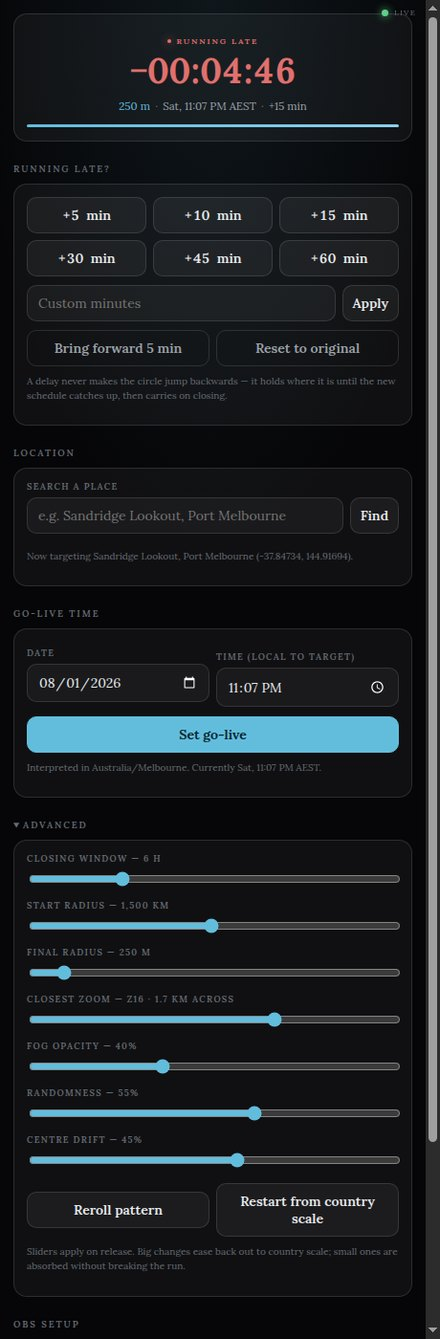
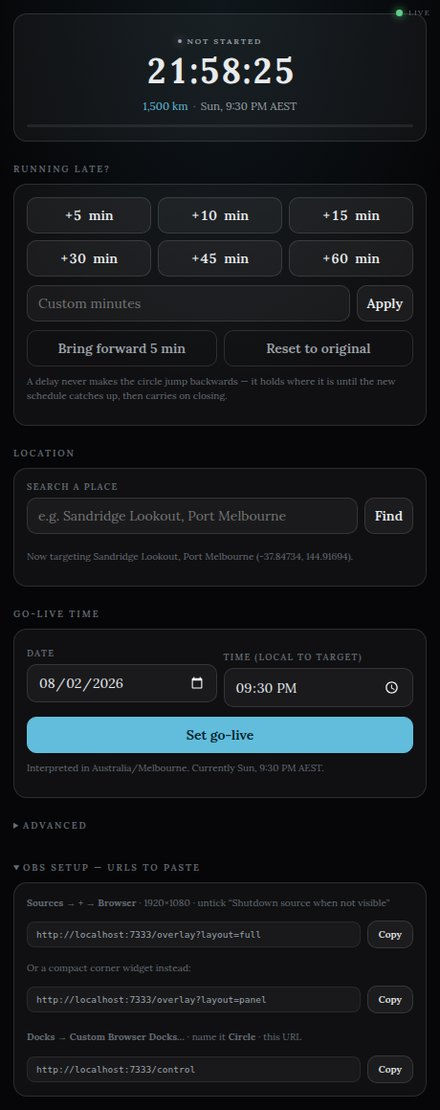
Package a download-and-run release
Installing meant cloning, npm install, npm start — fine for a developer,
not for someone who just wants an overlay before a stream.

The release zip now bundles node_modules, so Node.js is the only
prerequisite and there is no install step. That is only reasonable because
the runtime tree is two dependency-free packages: maplibre moves to
devDependencies, since its dist is already vendored into public/vendor.
The zip is 1.4 MB.

Launchers for all three platforms (.cmd, .command, .sh) check for Node and
point at nodejs.org rather than failing with "command not found", and stay
open on exit so a double-click never flashes a window and vanishes. The
server opens the control panel on start, and answers the likeliest
first-run failure — a second copy already running — with the port and a
fix instead of an EADDRINUSE stack trace.

The OBS URLs move out of Advanced into their own section, open by default,
with the click-path spelled out beside each one.

Release contents are an explicit allowlist, not a blocklist, so state.json
and the geocode cache cannot end up in a public download.

diff --git a/server/index.js b/server/index.js
@@ -7,6 +7,7 @@
  * and EventSource reconnects on its own with no dependency to install.
  */
 import { createServer } from 'node:http';
+import { spawn } from 'node:child_process';
 import { readFile } from 'node:fs/promises';
 import { extname, join, normalize, sep } from 'node:path';
 import { fileURLToPath } from 'node:url';
@@ -183,6 +184,23 @@ const server = createServer(async (req, res) => {
   }
 });
 
+/**
+ * Open the control panel in the default browser on start.
+ *
+ * Best-effort and deliberately silent on failure — a headless box or a locked-down
+ * desktop should still get a running server, not a crash. Set NO_OPEN=1 to skip.
+ */
+function openBrowser(url) {
+  if (process.env.NO_OPEN) return;
+  const cmd = process.platform === 'darwin' ? 'open'
+    : process.platform === 'win32' ? 'cmd'
+      : 'xdg-open';
+  const args = process.platform === 'win32' ? ['/c', 'start', '', url] : [url];
+  try {
+    spawn(cmd, args, { stdio: 'ignore', detached: true }).on('error', () => {}).unref();
+  } catch { /* no browser available; the URLs are printed above anyway */ }
+}
+
 function lanAddress() {
   for (const list of Object.values(networkInterfaces())) {
     for (const ni of list || []) {
@@ -191,6 +209,20 @@ function lanAddress() {
   }
   return null;
 }
+
+// The most likely first-run failure is a second copy already running. Say so plainly
+// instead of dumping an EADDRINUSE stack trace at someone who just wants an overlay.
+server.on('error', (err) => {
+  if (err.code === 'EADDRINUSE') {
+    console.error('');
+    console.error(`  Port ${PORT} is already in use.`);
+    console.error('  The Circle may already be running — check for another window,');
+    console.error(`  or start it on a different port with:  PORT=7334 npm start`);
+    console.error('');
+    process.exit(1);
+  }
+  throw err;
+});
 
 server.listen(PORT, HOST, () => {
   const lan = lanAddress();
@@ -207,6 +239,8 @@ server.listen(PORT, HOST, () => {
   console.log(`  │  Target   ${s.config.target.name}`);
   console.log(`  │  Go live  ${formatLocal(s.config.goLiveMs, s.config.target.tz)}`);
   console.log('  │');
+  console.log('  │  Leave this window open while you stream.');
   console.log('  └──────────────────────────────────────────────────────────');
   console.log('');
+  openBrowser(`http://localhost:${PORT}/control`);
 });

diff --git a/public/control.html b/public/control.html
@@ -115,16 +115,21 @@
       absorbed without breaking the run.
     </p>
   </div>
+</details>
 
-  <h2>OBS setup</h2>
+<details open>
+  <summary>OBS setup — URLs to paste</summary>
   <div class="card urls">
-    <div class="url"><code id="u-full"></code><button data-copy="u-full">Copy</button></div>
-    <div class="url"><code id="u-panel"></code><button data-copy="u-panel">Copy</button></div>
-    <div class="url"><code id="u-control"></code><button data-copy="u-control">Copy</button></div>
-    <p class="hint">
-      Browser Source → full or panel URL. Docks → Custom Browser Docks → the control URL.
-      Untick “Shutdown source when not visible”.
+    <p class="hint" style="margin:0 0 4px">
+      <b>Sources → + → Browser</b> · 1920×1080 · untick “Shutdown source when not visible”
     </p>
+    <div class="url"><code id="u-full"></code><button data-copy="u-full">Copy</button></div>
+    <p class="hint" style="margin:6px 0 4px">Or a compact corner widget instead:</p>
+    <div class="url"><code id="u-panel"></code><button data-copy="u-panel">Copy</button></div>
+    <p class="hint" style="margin:10px 0 4px">
+      <b>Docks → Custom Browser Docks…</b> · name it <b>Circle</b> · this URL
+    </p>
+    <div class="url"><code id="u-control"></code><button data-copy="u-control">Copy</button></div>
   </div>
 </details>
 

diff --git a/README.md b/README.md
@@ -16,21 +16,39 @@ out the rest.
 
 ![Final approach, running late](docs/late.jpg)
 
-## Setup
+## Install
 
-```bash
-npm install
-npm start
-```
+**[⬇ Download the latest release](https://github.com/Obsidiate/obs-the-circle/releases/latest)**,
+unzip it anywhere, and:
 
-Then, in OBS:
+| | |
+|---|---|
+| **Windows** | double-click `start.cmd` |
+| **macOS** | double-click `start.command` |
+| **Linux** | run `./start.sh` |
+
+A window opens and the control panel appears in your browser. Leave that window running
+while you stream.
+
+Then in OBS — no plugin, nothing to compile:
 
 1. **Sources → + → Browser** → `http://localhost:7333/overlay?layout=full`, 1920×1080.
    Untick *Shutdown source when not visible*.
 2. **Docks → Custom Browser Docks…** → name it `Circle`, URL `http://localhost:7333/control`.
 
-No plugin to install. The overlay is an ordinary browser source; the control panel is a
-dock that lives inside the OBS window.
+Both URLs sit in the control panel with copy buttons, so you never have to type them.
+
+The only requirement is [Node.js](https://nodejs.org) (take the LTS installer). The
+release bundles everything else — there's no `npm install`.
+
+<details>
+<summary>Running from a clone instead</summary>
+
+```bash
+npm install
+npm start
+```
+</details>
 
 ## Control panel
 
